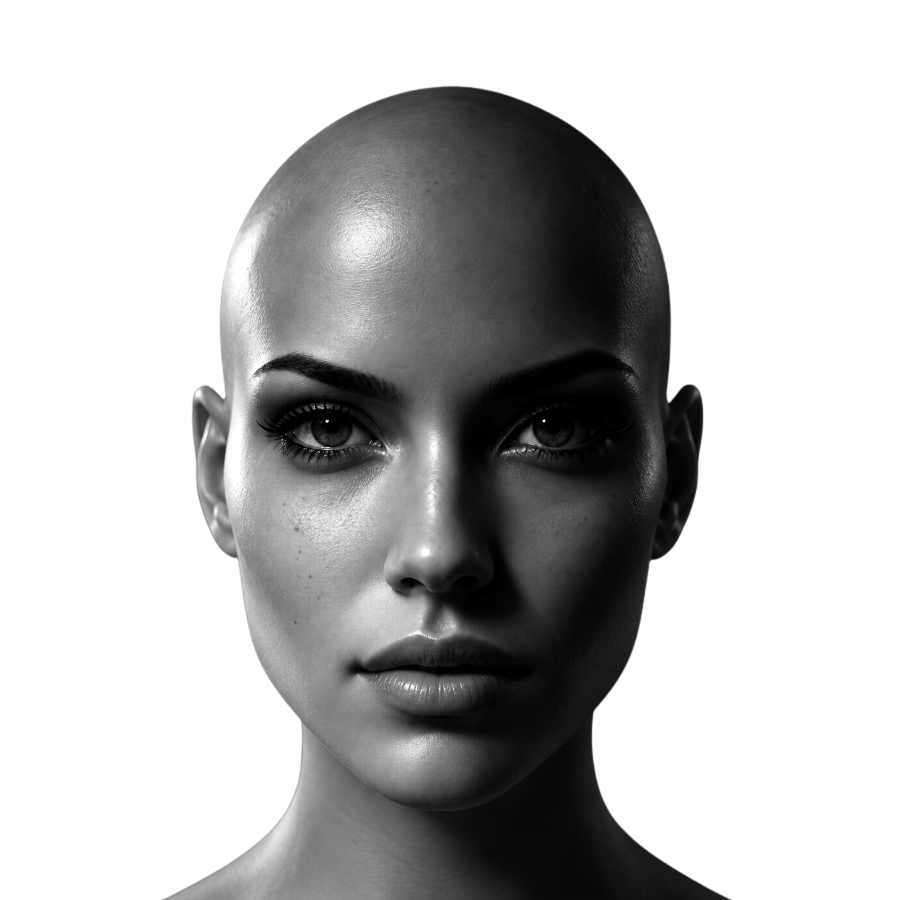
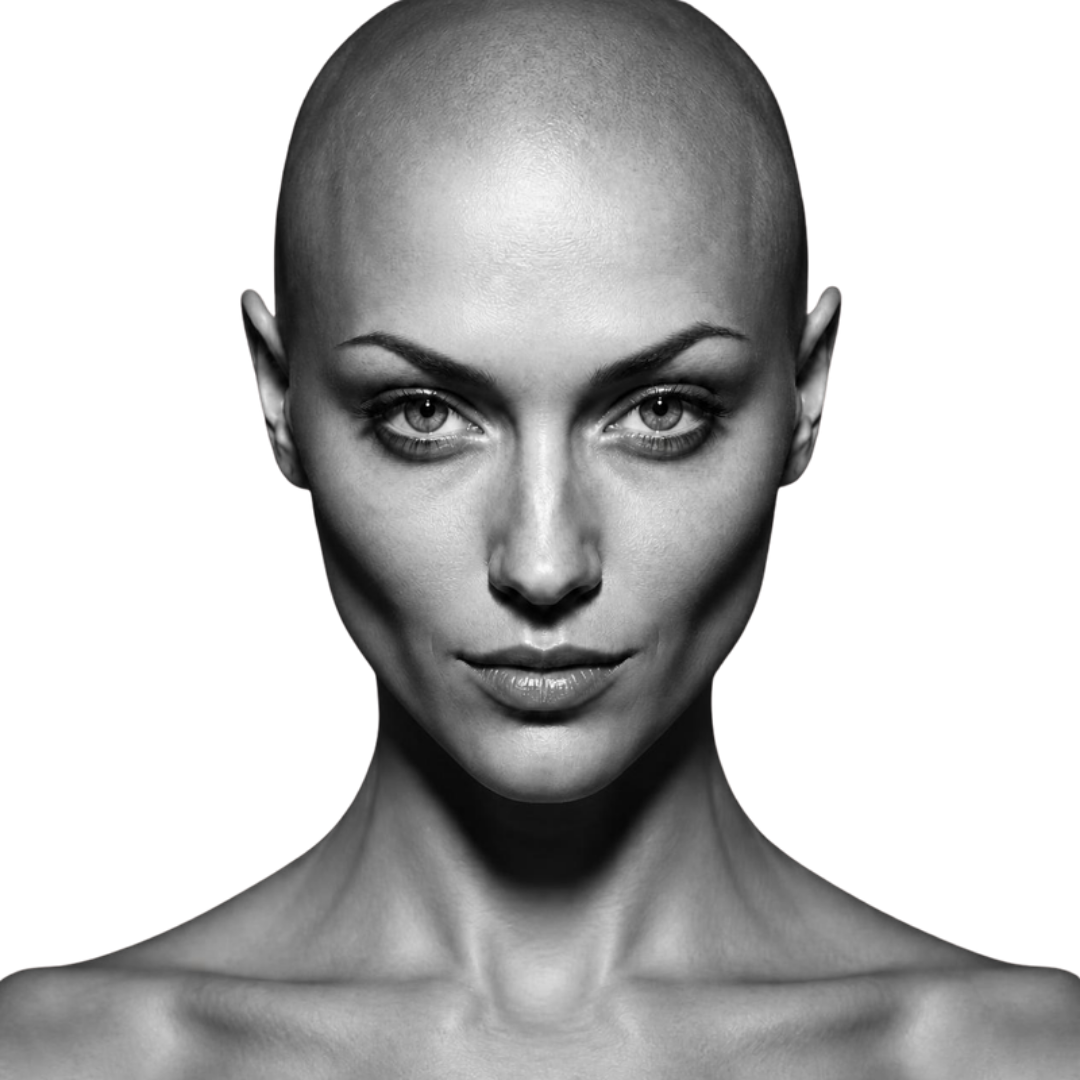
The Portrait is Janus, not a stranger
The source was a stock photograph of a woman neither of us knows. Mind
picked a generated replacement, and she is the face now: a bald woman
under a hard key light, chosen because the sockets go black and the nose
ridge and jawline take a hard highlight -- that contrast is what the dot
renderer turns into a face.

Re-measured for the new picture and verified by overlay before the code
was touched: MOUTH_FRAC 0.632, EYE_FRAC 0.387, EYE_CFRAC 0.500,
EYE_SEP 0.113.

diff --git a/faces/dotphoto/index.html b/faces/dotphoto/index.html
@@ -129,7 +129,7 @@ let FACE_H = 1.44;
 // Where the mouth lands as a fraction down the image, converted into the
 // same face coordinates the rig uses. MEASURE THIS when swapping the
 // picture -- the jaw hinges on it.
-const MOUTH_FRAC = 0.743;
+const MOUTH_FRAC = 0.632;
 let MOUTH_Y = (MOUTH_FRAC - 0.5) * FACE_H;
 // WHERE THE EYES ARE. MEASURE THESE AGAIN when the picture changes --
 // the blink hinges on them the way the jaw hinges on MOUTH_Y.
@@ -139,7 +139,7 @@ let MOUTH_Y = (MOUTH_FRAC - 0.5) * FACE_H;
 // version -- "take the darkest band across the upper half" -- put them
 // on the eyelids, because lashes and a strong brow are darker than an
 // iris. Mind caught it on the live face in one glance ("off a touch").
-const EYE_FRAC = 0.481, EYE_CFRAC = 0.491, EYE_SEP = 0.126;
+const EYE_FRAC = 0.387, EYE_CFRAC = 0.500, EYE_SEP = 0.113;
 let EYE_Y = (EYE_FRAC - 0.5) * FACE_H;
 const EYE_CX = (EYE_CFRAC - 0.5) * FACE_W, EYE_DX = EYE_SEP * FACE_W;
 
